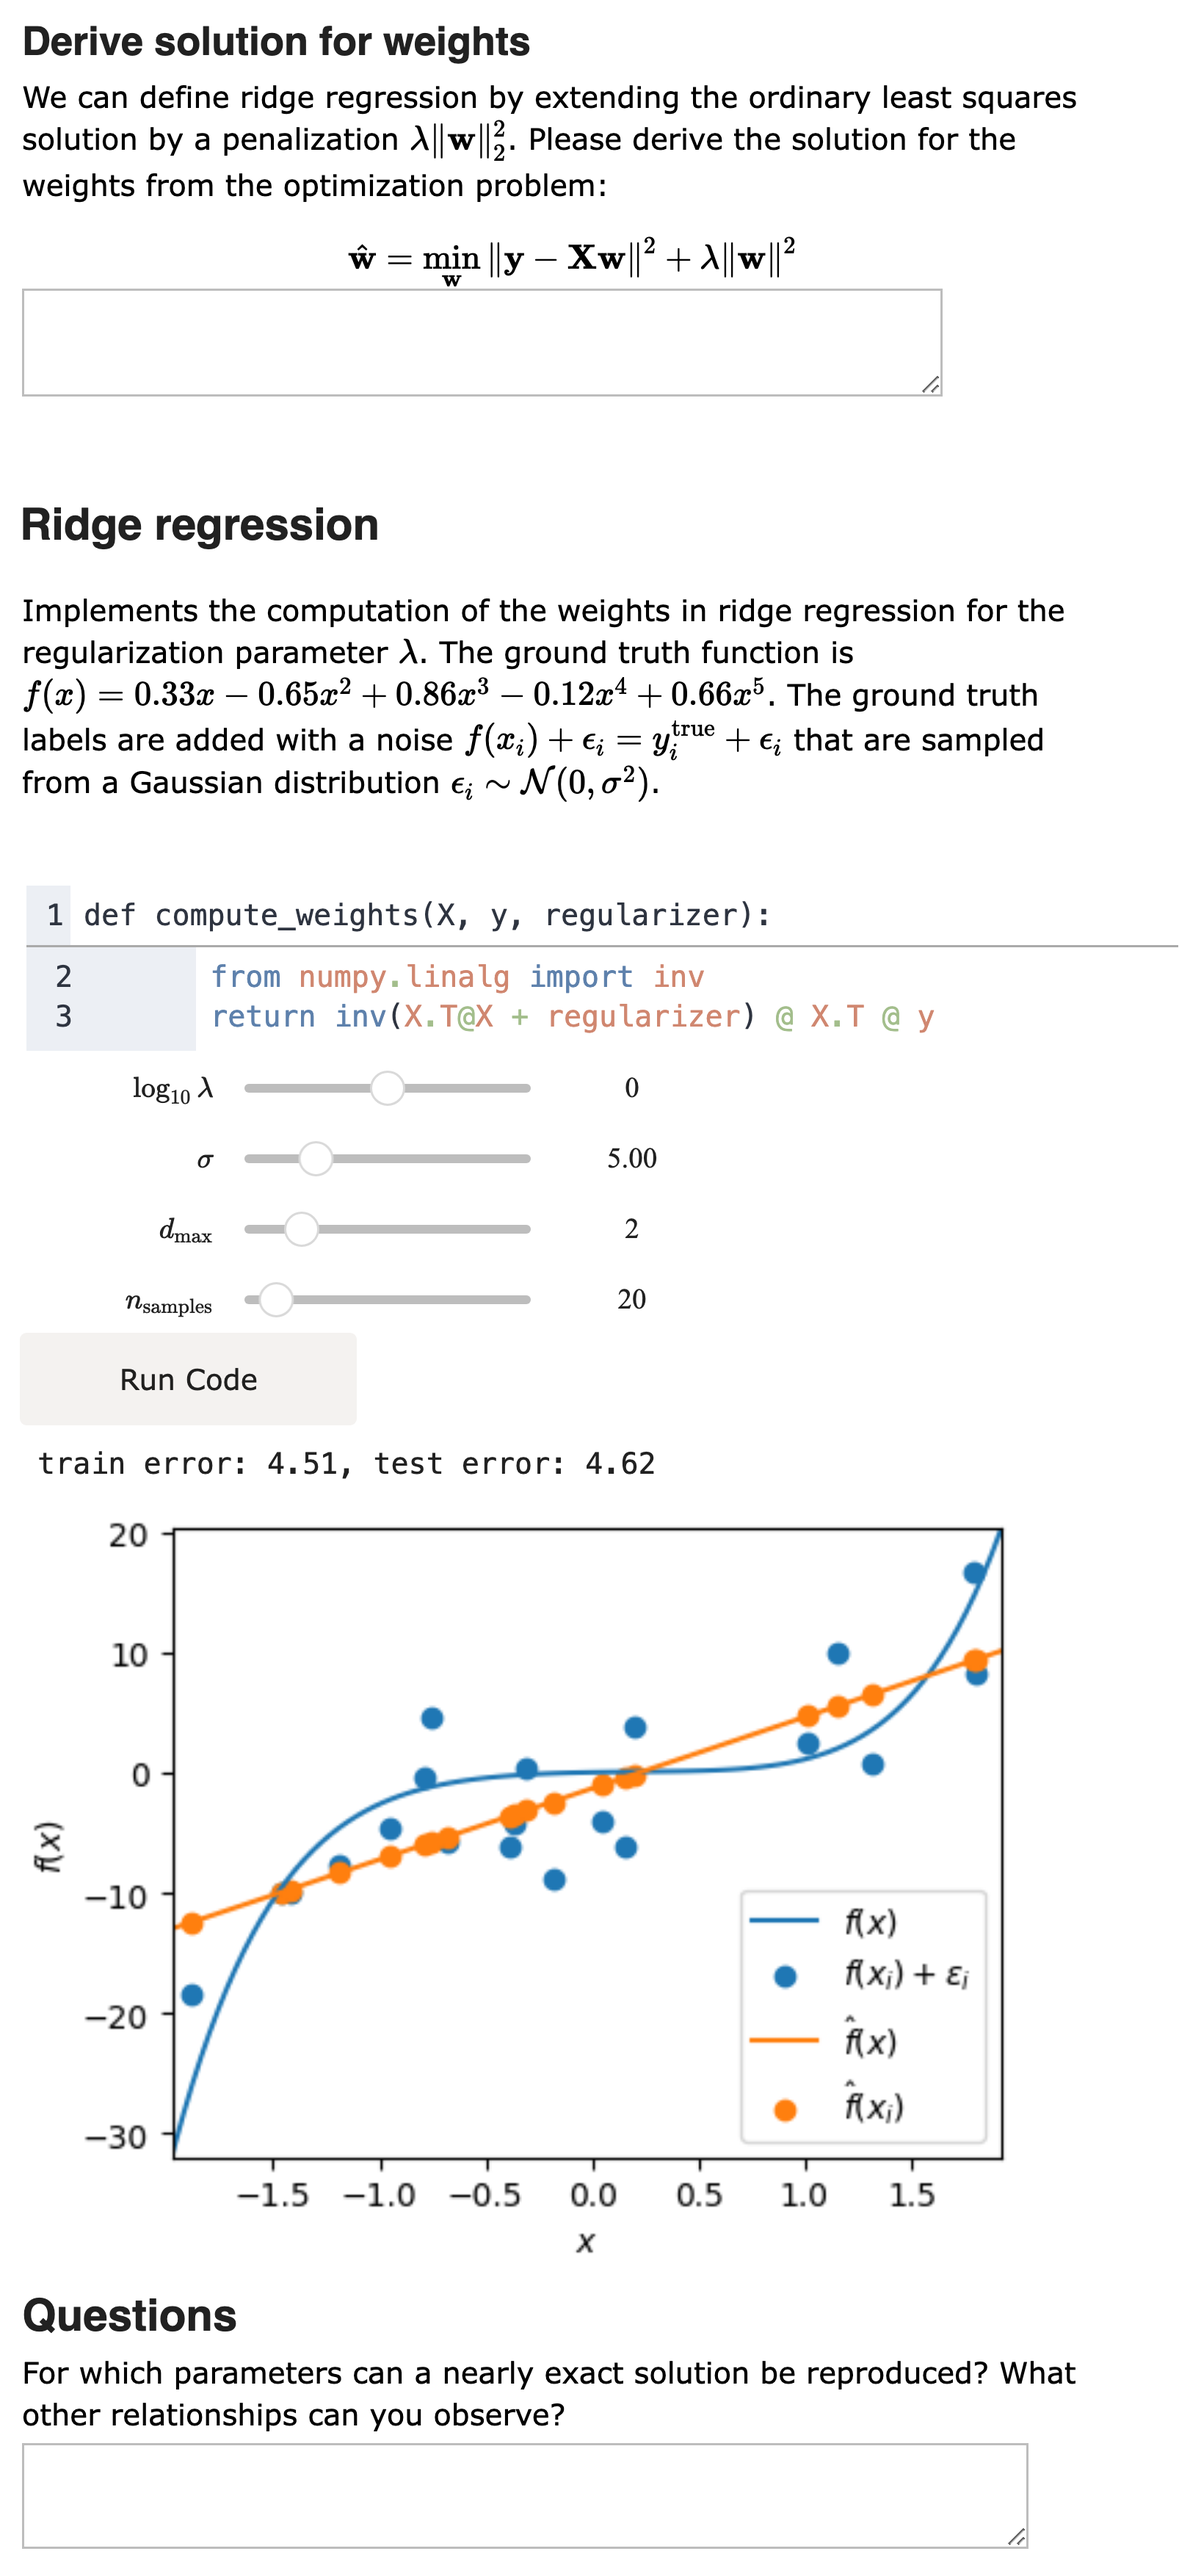
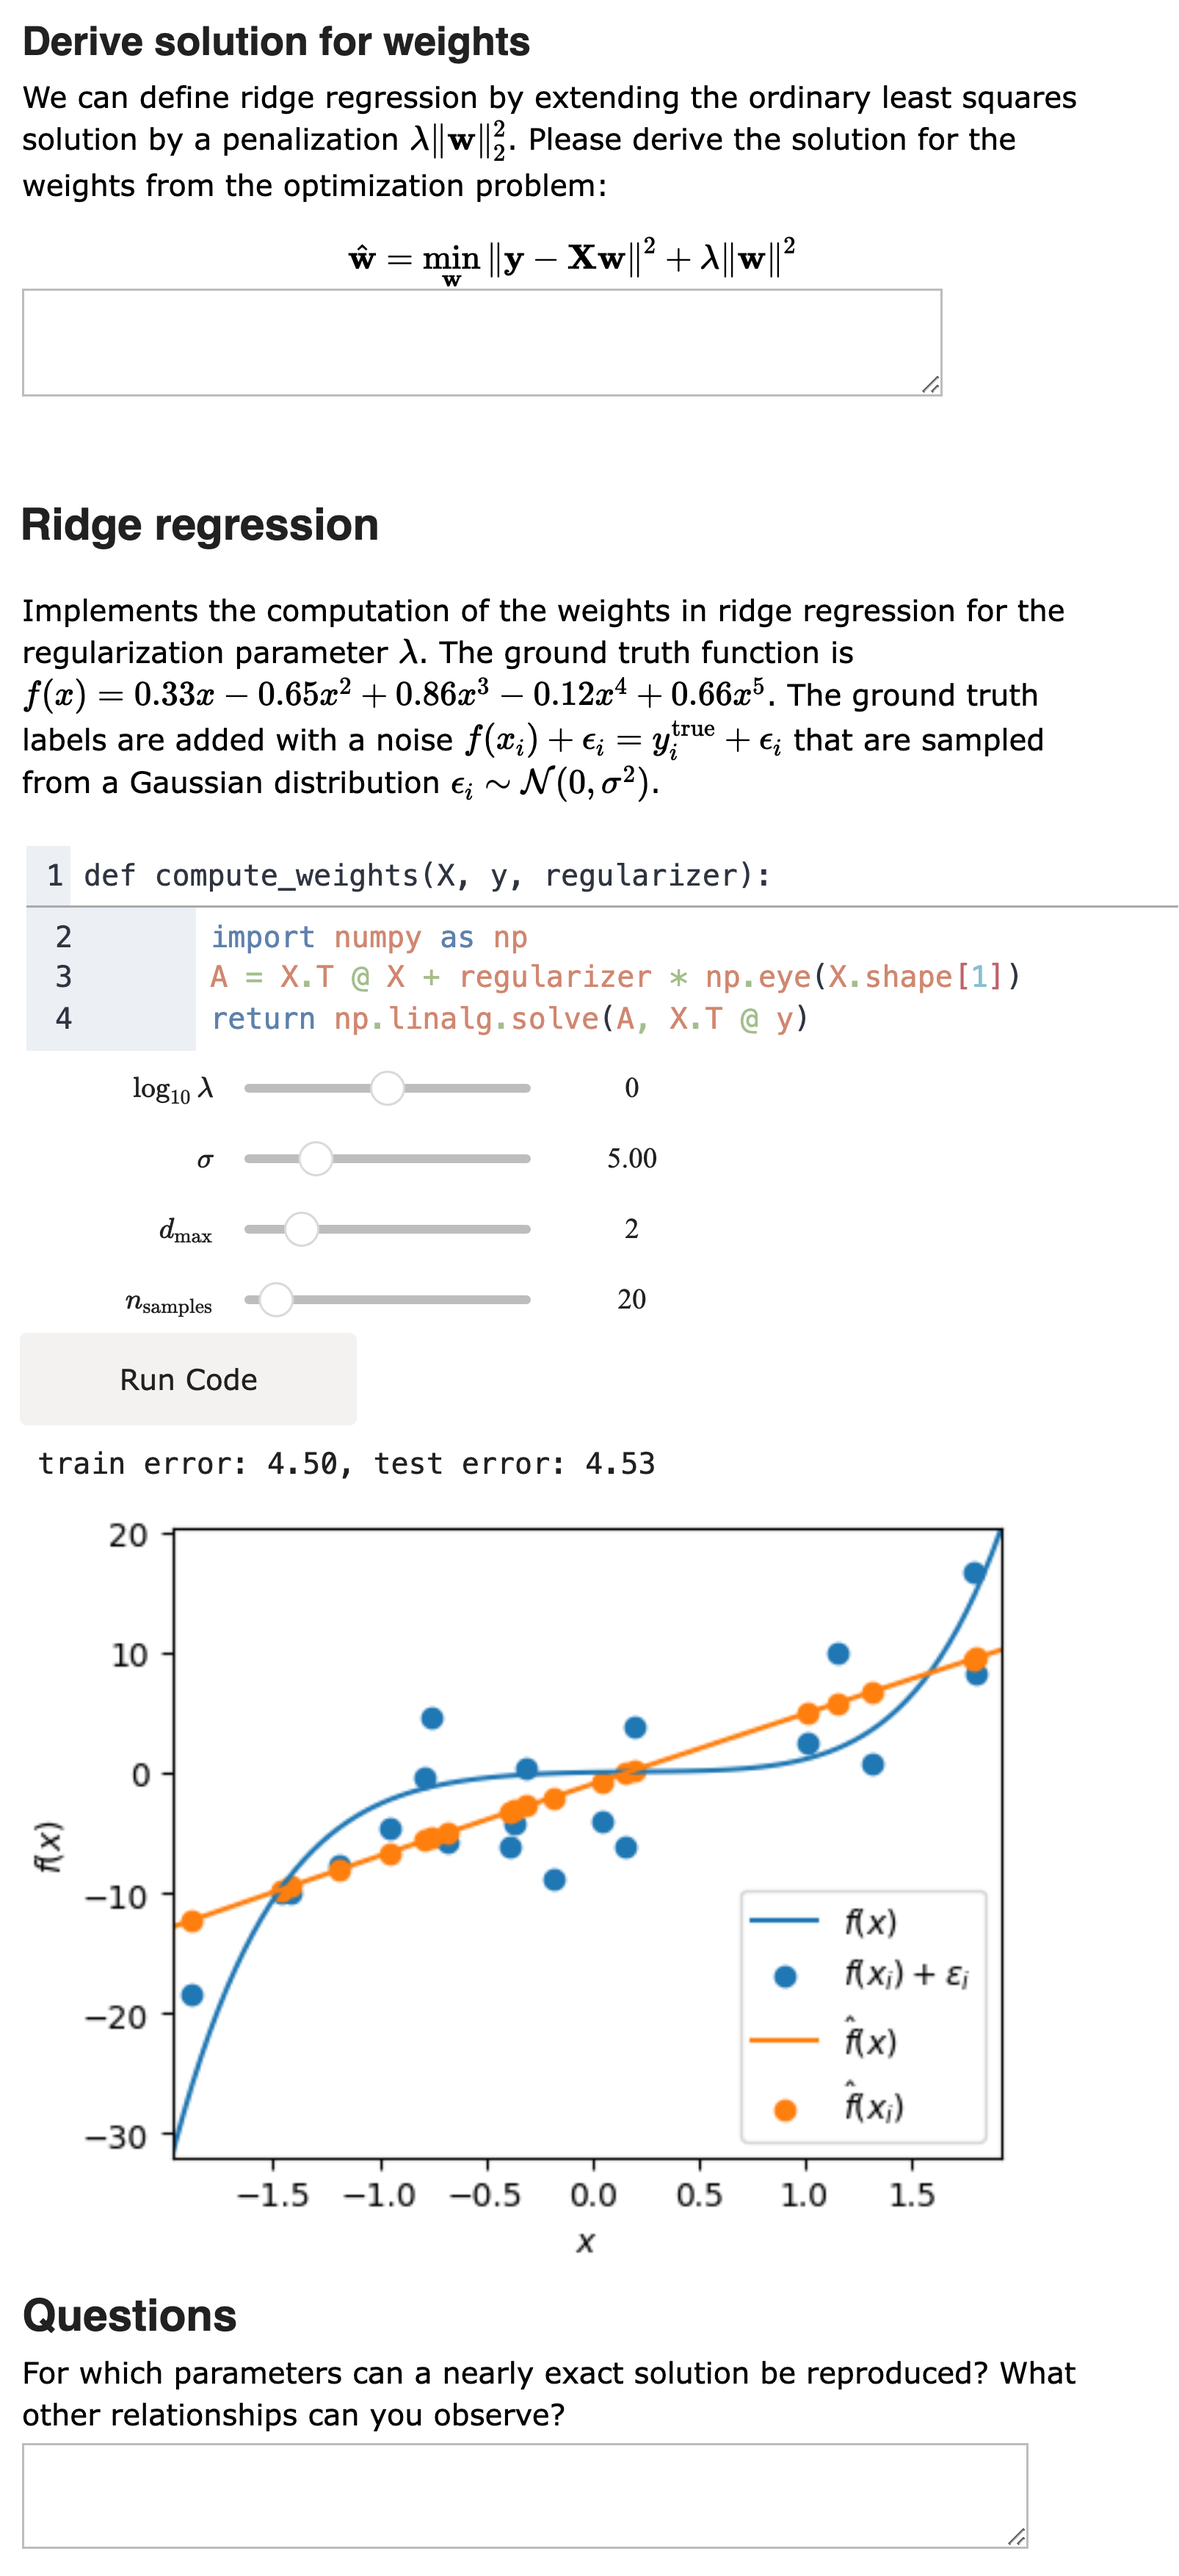
Apply feedback from Michele

diff --git a/paper.md b/paper.md
@@ -71,11 +71,11 @@ that can be connected in a sequential coherent narrative, thereby
 facilitating learning [@jupyter-narrative]. In addition to bare
 notebooks, custom Jupyter widgets have been developed both in research
 contexts [@aiidalab] and in educational contexts to create virtual lab
-applications, e.g., allowing students to explore the experimental
+applications, e.g., allowing students to explore the relevant
 parameter space
 interactively [@sutchenkov2020active; @du2023osscar; @du2024widget] or
 simply serving as a replacement for a hands-on lab
-experience [@vrl-survey]. Indeed, studies in control education have
+experience [@vrl-survey]. Indeed, studies in control engineering education have
 observed that these learning experiences can reach a similar
 effectiveness as their hands-on counterparts [@vrl-survey]. These
 examples usually focus on conveying the interaction between theory and
@@ -84,8 +84,8 @@ create and design these computational experiments, a skill that is
 becoming more essential for all fields of computational science.
 Although related skills are taught in separate courses, the interplay of
 theoretical understanding, algorithmic design, and interpretation of the
-results is typically only taught in more advanced courses. A crucial
-contributing factor to its late introduction in the curriculum is the
+results is typically only taught in more advanced classes. A crucial
+contributing factor to the late introduction in the curriculum is the
 amount of boilerplate code that needs to be written to process and
 visualize the data, together with the amount of time needed to get
 acquainted with the domain-specific tools that help with this kind of
@@ -95,7 +95,7 @@ by ancillary code that does not contribute to the core learning
 outcomes. In addition, for an interactive experience, computational
 experiments need to be rerun frequently to assess the results under
 different conditions. While parameters in a notebook cell can be changed
-and rerun, it still adds friction to the experience of students if
+and simulations can be rerun, it still adds friction to the experience of students if
 multiple actions are required to rerun an experiment (such as changing
 values in several cells and rerunning them in a specific order). Due to
 these aspects, learning is hindered by having to perform repetitive
@@ -174,7 +174,7 @@ trigonometric functions (for an example, see the check framed by a blue
 box in Fig. [2](#fig:check-code){reference-type="ref"
 reference="fig:check-code"}). One noteworthy point is that, for certain
 exercises, the reference values can contain hints of the solution, which
-can be exploited by students to solve the exercise. As the reference
+can be exploited by students to "reverse engineer" the correct answer. As the reference
 values need to be part of the notebook, they cannot be safely hidden
 from the students. The library therefore provides an option to pass a
 fingerprint function that post-processes the output before the check is
@@ -230,7 +230,7 @@ more dynamic learning process.
 
 ![An example notebook covering the topic of ridge regression, divided
 into exercises demanding mathematical, coding, and analytical skills. It
-includes both our exercise widget and free-text boxes for answering
+includes both an exercise widget and free-text boxes for answering
 questions. Even just generating this simple plot requires more than $30$
 lines of Python code. Thanks to `scicode-widgets`, this code is hidden
 from students, so that they can instead focus on understanding the core
@@ -294,7 +294,7 @@ questions).
 `scicode-widgets` depends on several external libraries that implement
 the widgets used as components in the applications. In addition to the
 package `ipywidgets`, which provides most of the standard widgets used
-for the applications, the coding environment relies on our package
+for the applications, the coding environment relies on the package
 `widget-code-input`, providing the editable text box where students can
 input their code, where the function signature (and possibly function
 documentation in the format of a standard Python `docstring`) is
@@ -411,7 +411,8 @@ repository [@iam-notebooks].
 # AI usage disclosure
 
 AI tools were used to assist with proofreading and editorial revisions to this
-manuscript, including typography, grammar, and reference formatting. The authors
+manuscript, including typography, grammar, and reference formatting, and to assist
+with corrections to the supplementary figure notebook and figure regeneration. The authors
 reviewed and approved the resulting changes. No AI tools were used to develop
 the `scicode-widgets` package.
 
